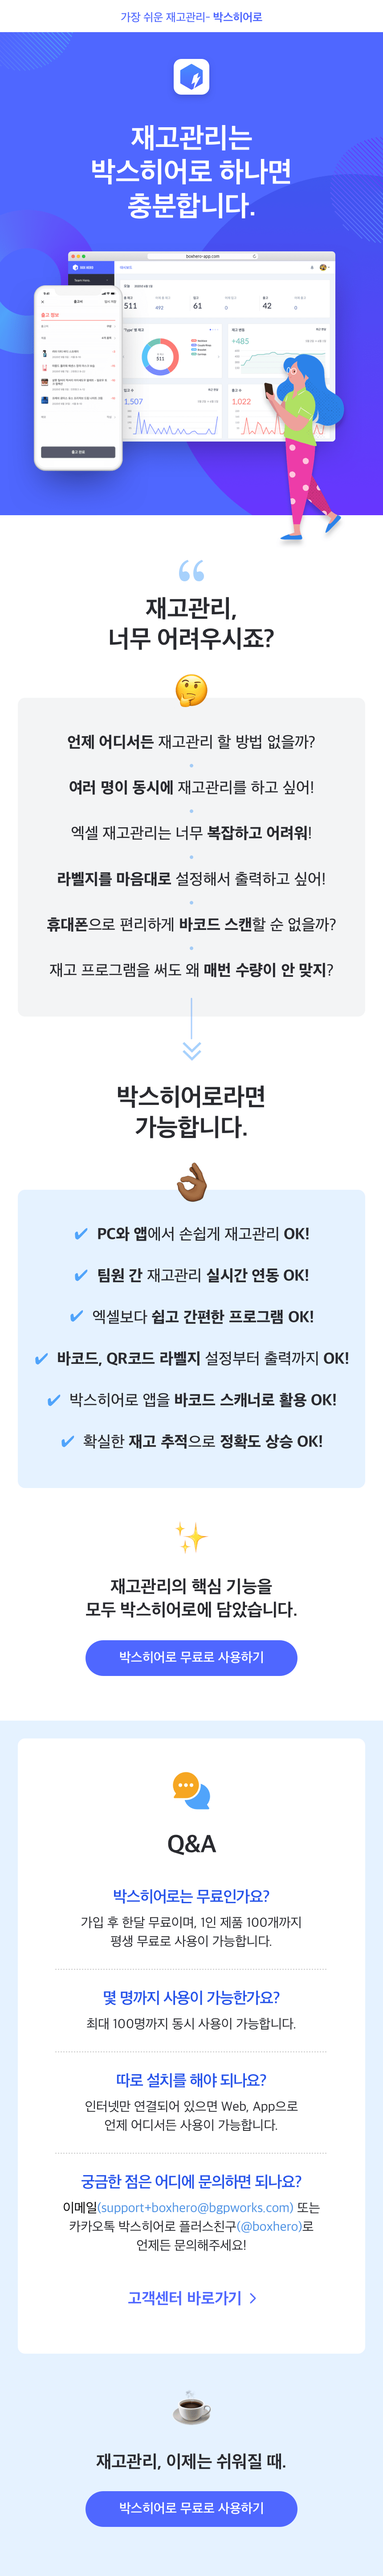
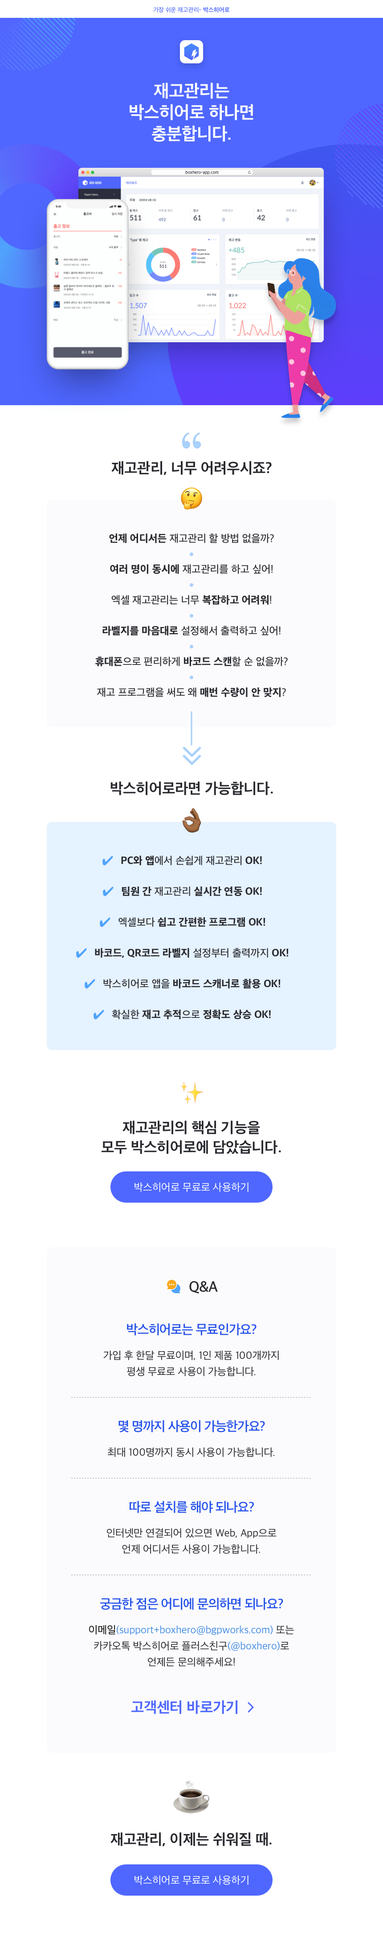
pc이미지 변경. a link로 구현.

diff --git a/src/components/desktop-marketing.js b/src/components/desktop-marketing.js
@@ -3,20 +3,41 @@
 
 import React from "react";
 
+import { ExternalLinkWithQuery } from "../components/common";
+import * as constants from "../components/constants";
+
 import styles from "./desktop-marketing.module.css";
-import Image from "../images/ko/marketing-web.png"
+import Image from "../images/ko/marketing-web.png";
 
-console.log(styles);
-
+const Link = ({ href, x, y, width, height }) => {
+  return (
+    <ExternalLinkWithQuery
+      href={href}
+      className={styles.link}
+      style={{
+        left: x,
+        top: y,
+        width: width,
+        height: height,
+      }}
+    />
+  );
+};
 
 const DesktopMarketing = ({ data, language, t }) => {
   return (
     <div className={styles.container}>
       <div className={styles.imgContainer}>
-        <img src={Image} className={styles.img}/>
-        <a href="" className={styles.link1}></a>
-      </div>
+        <img src={Image} className={styles.img} useMap="#image-map" />
 
+        <Link href={constants.urlStart} x="240px" y="2610px" width="400px" height="100px" />
+        <Link href={t("url:doc")} x="240px" y="3770px" width="400px" height="100px" />
+        <Link href={constants.urlStart} x="240px" y="4170px" width="400px" height="100px" />
+
+        <Link href="mailto:support+boxhero@bgpworks.com" x="261px" y="3628px" width="354px" height="43px" />
+        <Link href="https://pf.kakao.com/_rHxgpxl" x="512px" y="3673px" width="119px" height="30px" />
+        //512,3673,631,3703
+      </div>
     </div>
   );
 };

diff --git a/src/pages/marketing.js b/src/pages/marketing.js
@@ -20,11 +20,11 @@ const IndexPage = ({ data }) => {
       />
 
       <Media at="xs">
-        <MobileMarketing />
+        <MobileMarketing data={data} language={language} t={t} />
       </Media>
 
       <Media greaterThan="xs">
-        <DesktopMarketing />
+        <DesktopMarketing data={data} language={language} t={t} />
       </Media>
 
     </>

diff --git a/src/components/desktop-marketing.module.css b/src/components/desktop-marketing.module.css
@@ -6,20 +6,11 @@
 }
 
 .imgContainer {
-  display: relative;
-  width: 600px;
+  position: relative;
 }
 
-.img {
-  max-width: 100%;
-}
-
-.link1 {
-  top: 3673px;
-  left: 185px;
-  right: 671px;
-  bottom: 3755px;
-
+.link {
   border: 1px solid red;
   position: absolute;
+  cursor: pointer;
 }
